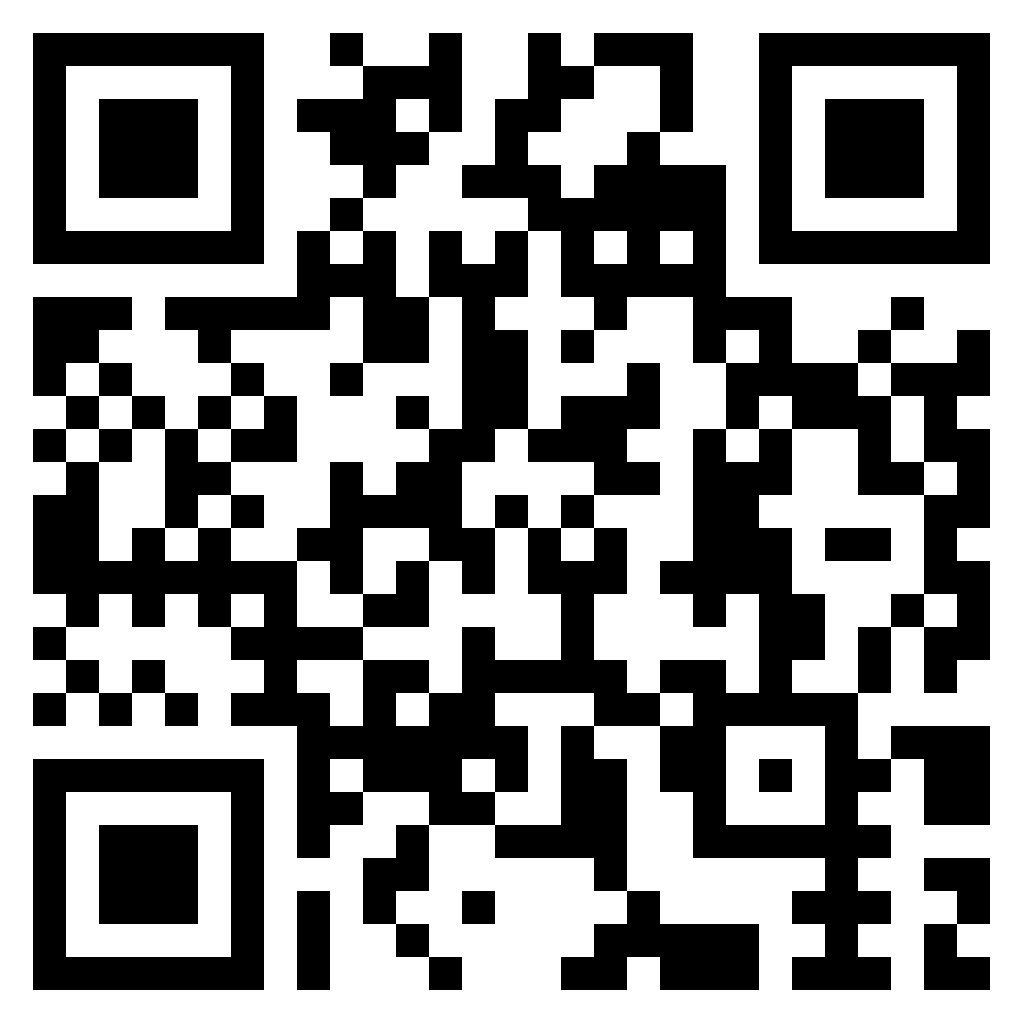
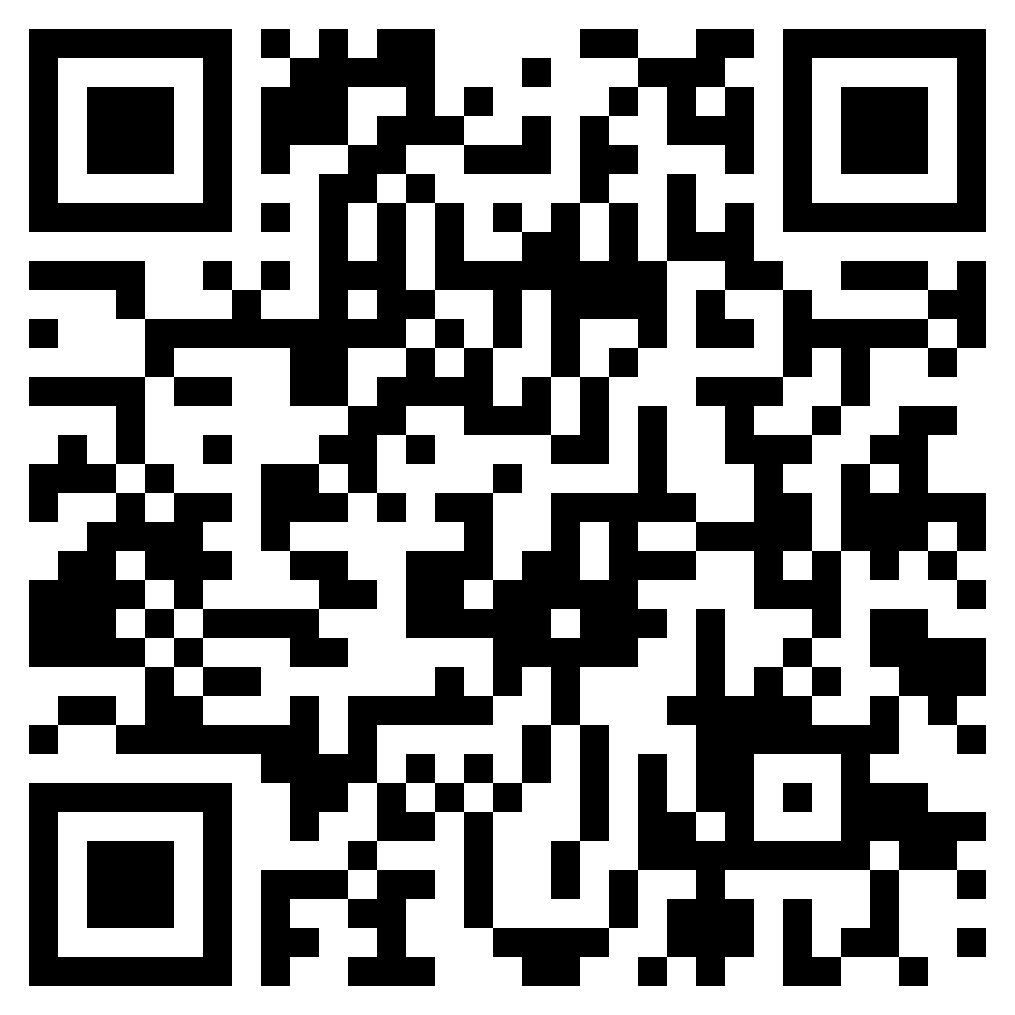
up

diff --git a/pages/student/index.php b/pages/student/index.php
@@ -15,7 +15,7 @@
       <div class="text-center">
         <?php
         $id = base64_encode($_SESSION['s_id']);
-        $data = "http://www.it.science.kmitl.ac.th/workshop/pages/staff/index.php?id=" . $id;
+        $data = "http://sciserv01.sci.kmitl.ac.th/workshop/pages/staff/index.php?id=" . $id;
         ?>
         <img src="https://api.qrserver.com/v1/create-qr-code/?size=250x250&data=<?php echo $data; ?>" class="img-thumbnail">
         <p class="text-center"><a href="/workshop/pages/index.php" class="mt-3 btn btn-success text-white">หน้าหลัก</a></p>

diff --git a/pages/index.php b/pages/index.php
@@ -19,7 +19,7 @@
             </div>
             <div class="col-lg-3" style="text-align: center;">
                 <img src="/workshop/images/qr/workshop.png" class="img-thumbnail" style="display:table; margin: 0 auto; max-width:200px;">
-                <a class="btn btn-success text-white mt-2"href="/workshop">หรือคลิกที่นี้</a>
+                <a class="btn btn-success text-white mt-2"href="/workshop/pages/auth/login.php">หรือคลิกที่นี้</a>
             </div>
         </div>
 
